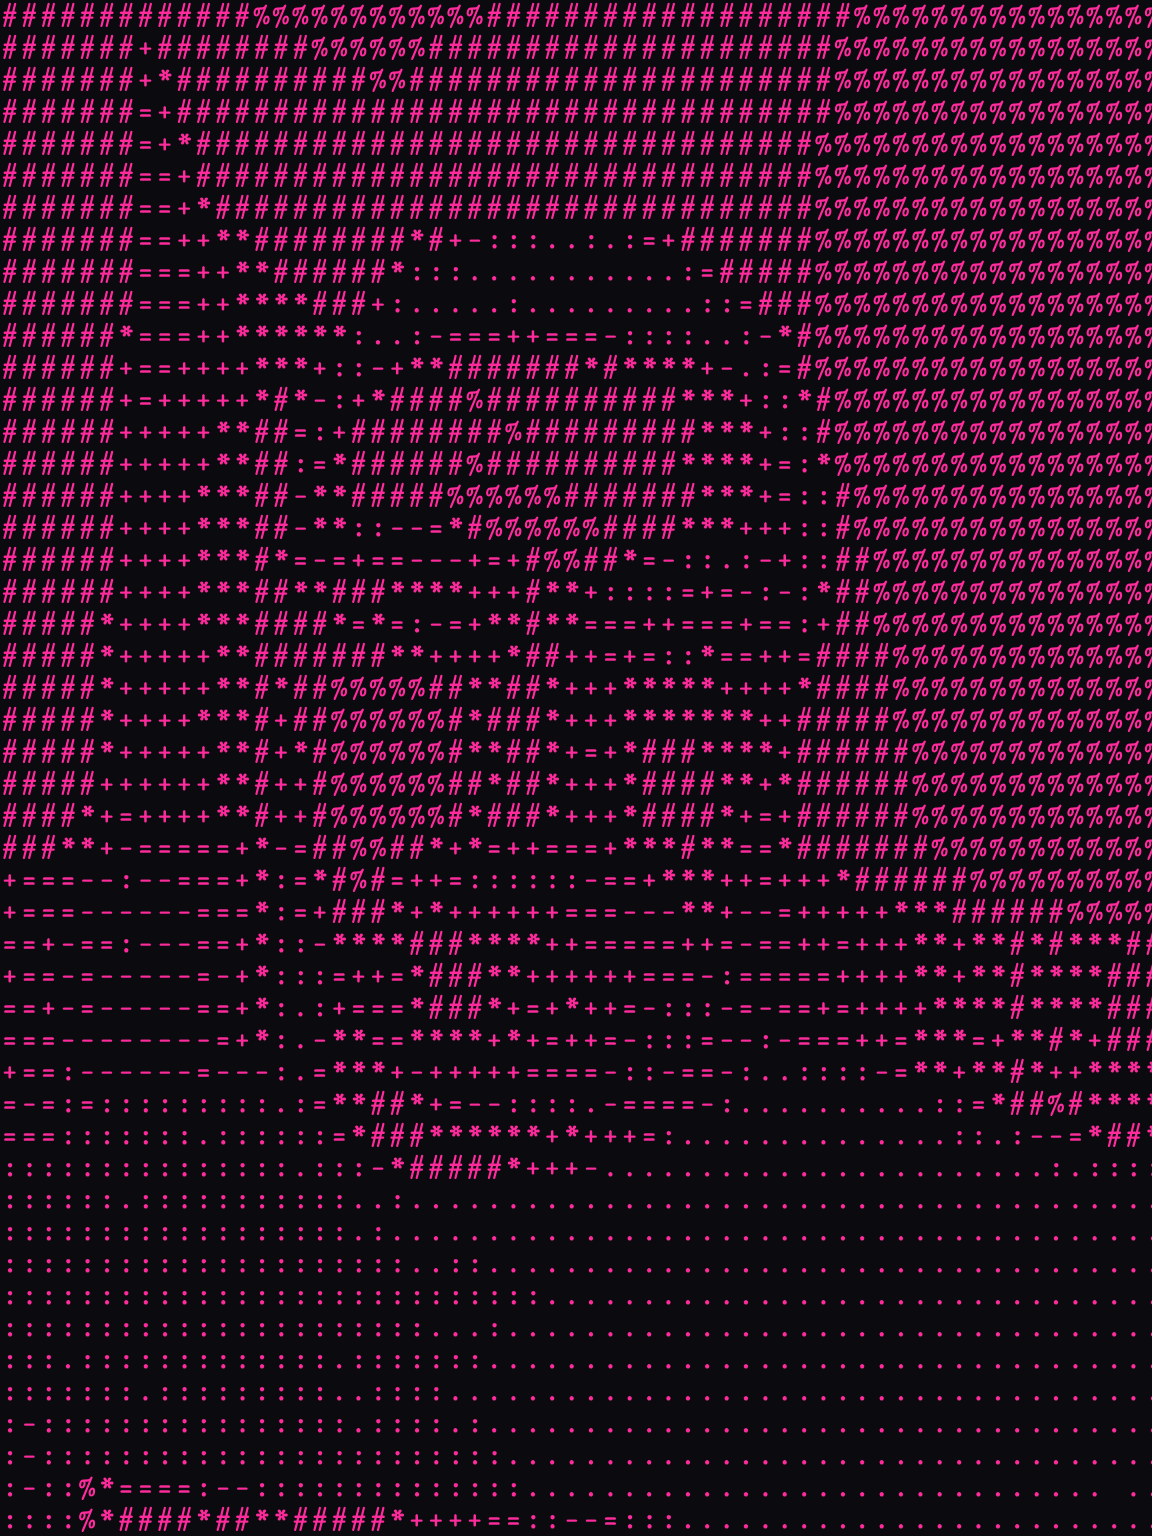
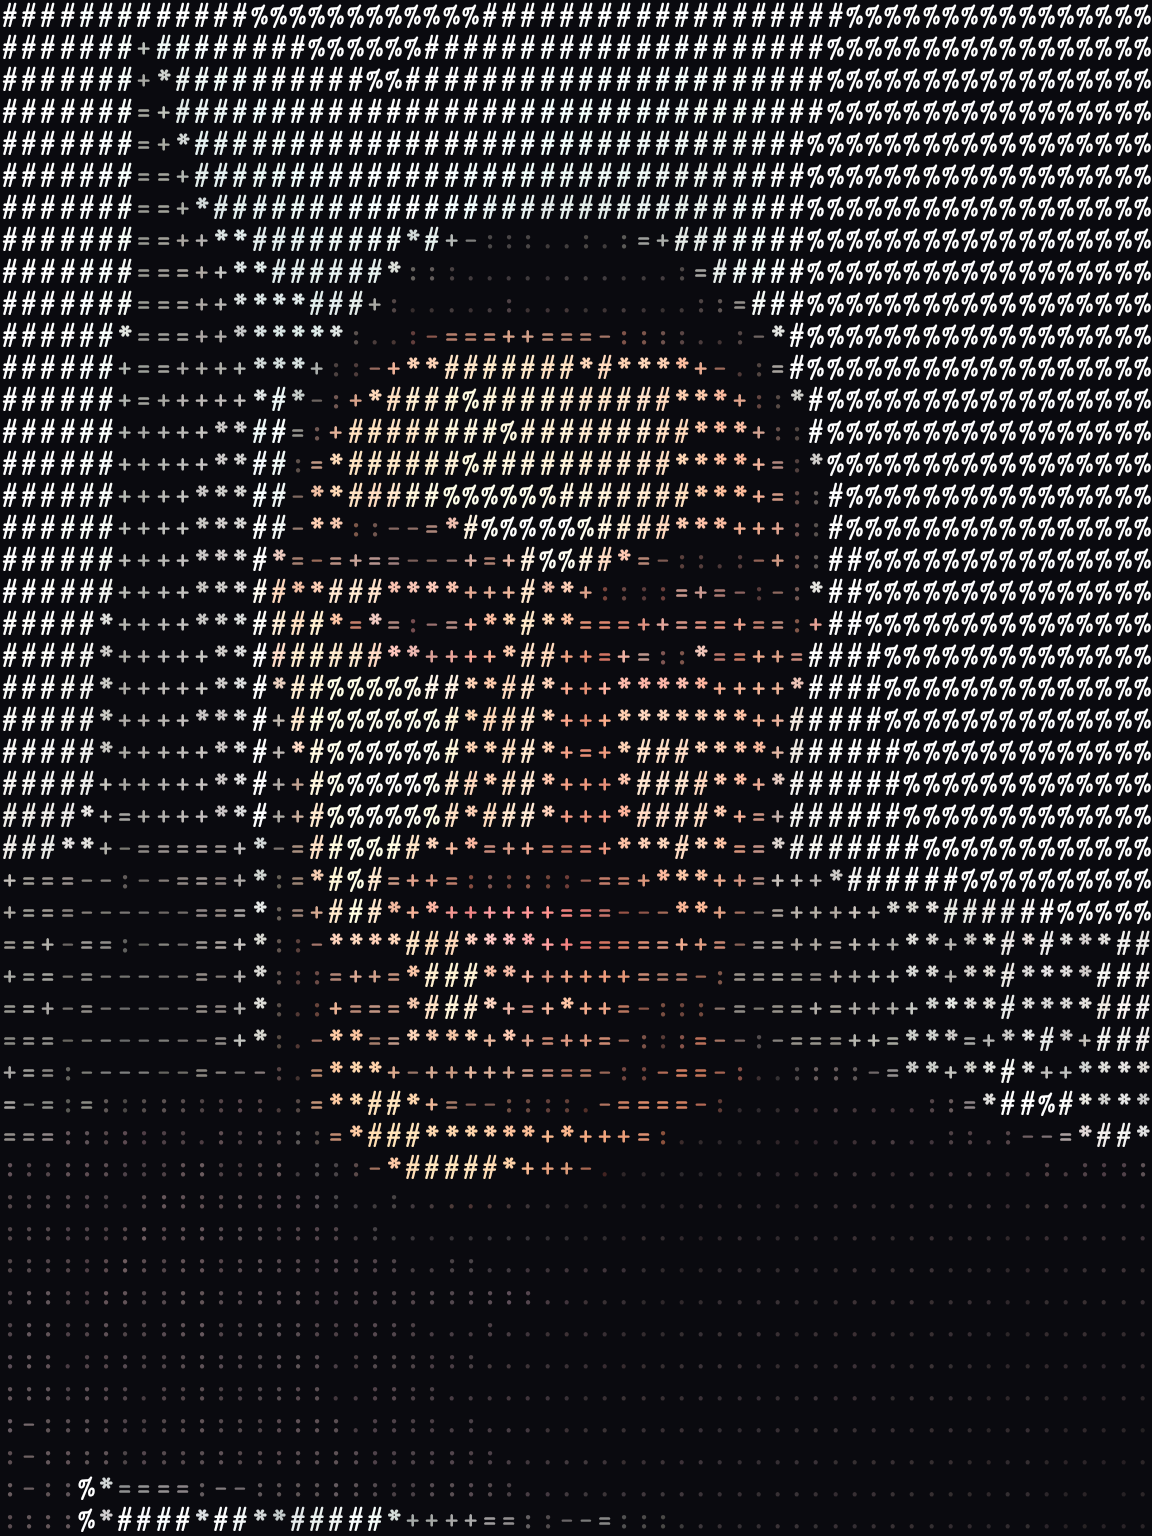
fix the photo and the font size

Changed region(s): [[0.0, 0.0, 1.0, 0.7812], [0.0625, 0.7188, 0.5938, 1.0], [0.4062, 0.8125, 0.4375, 0.875]]

diff --git a/main.py b/main.py
@@ -213,7 +213,7 @@ def get_total_loc(repos, user_id):
 
 FONT = "SFMono-Regular, Consolas, 'Liberation Mono', Menlo, monospace"
 BG = "#0a0a0f"        # matches the ascii-art background exactly, so the two blend
-ACCENT = "#ff2b9d"     # sampled from the ascii art's dominant pink
+ACCENT = "#e6e6e6"     # plain white labels, matching the reference style (no color accent)
 WHITE = "#e6e6e6"
 GRAY = "#5c6370"
 GREEN = "#98c379"
@@ -234,7 +234,7 @@ def dotted(label, value, color=WHITE):
 
 
 def build_svg(stats, art_b64, art_w, art_h):
-    line_h = 22
+    line_h = 30
     lines = []   # (kind, markup, plain_len)
 
     def header(text):
@@ -291,24 +291,26 @@ def build_svg(stats, art_b64, art_w, art_h):
     lines.append(("row", loc_markup, loc_plain_len))
 
     margin = 30
+    art_margin = 12   # tighter left/top/bottom margin so the art hugs the edge
     text_h = len(lines) * line_h
     canvas_h = text_h + margin * 2
 
-    # Scale the art to the full content height (not a fixed width), so its
-    # proportions match the height of the text column instead of leaving
-    # dead space above/below it.
-    art_disp_h = canvas_h - margin * 2
+    # Scale the art a bit smaller than the full content height, and center
+    # it vertically, so it reads as a companion graphic rather than
+    # dominating the block.
+    max_art_h = canvas_h - art_margin * 2
+    art_disp_h = max_art_h * 0.82
     art_disp_w = art_w * (art_disp_h / art_h)
-    art_x = margin
-    art_y = margin
+    art_x = art_margin
+    art_y = art_margin + (max_art_h - art_disp_h) / 2
 
-    text_x = art_x + art_disp_w + 50
-    char_w = 9.6  # approx monospace advance width at this font size
+    text_x = art_x + art_disp_w + 45
+    char_w = 12.2  # approx monospace advance width at this font size
     max_chars = max((plain_len for _, _, plain_len in lines), default=0)
     canvas_w = text_x + max_chars * char_w + margin
 
     svg_lines = []
-    y = margin + 16
+    y = margin + 20
     for kind, content, _ in lines:
         if kind == "blank":
             y += line_h
@@ -316,17 +318,17 @@ def build_svg(stats, art_b64, art_w, art_h):
         if kind == "header":
             svg_lines.append(
                 f'<text x="{text_x:.0f}" y="{y}" font-family="{FONT}" '
-                f'font-size="16" font-weight="bold" fill="{WHITE}">{content}</text>'
+                f'font-size="21" font-weight="bold" fill="{WHITE}">{content}</text>'
             )
         elif kind == "rule":
             svg_lines.append(
                 f'<text x="{text_x:.0f}" y="{y}" font-family="{FONT}" '
-                f'font-size="16" fill="{GRAY}">{content}</text>'
+                f'font-size="20" fill="{GRAY}">{content}</text>'
             )
         else:
             svg_lines.append(
                 f'<text x="{text_x:.0f}" y="{y}" font-family="{FONT}" '
-                f'font-size="15">{content}</text>'
+                f'font-size="20">{content}</text>'
             )
         y += line_h
 
